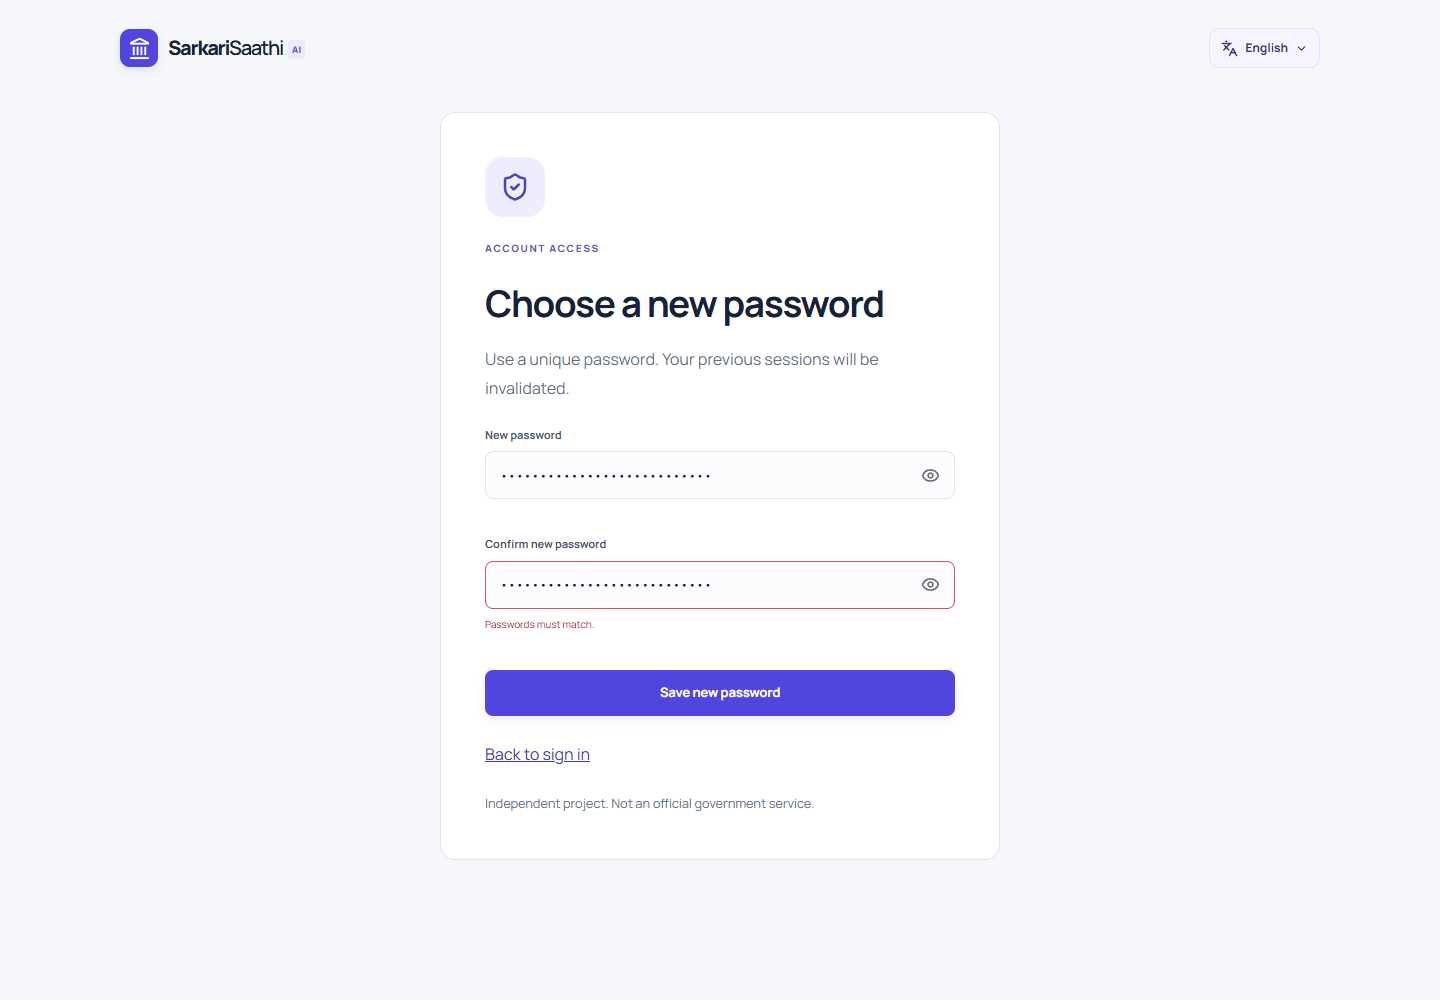
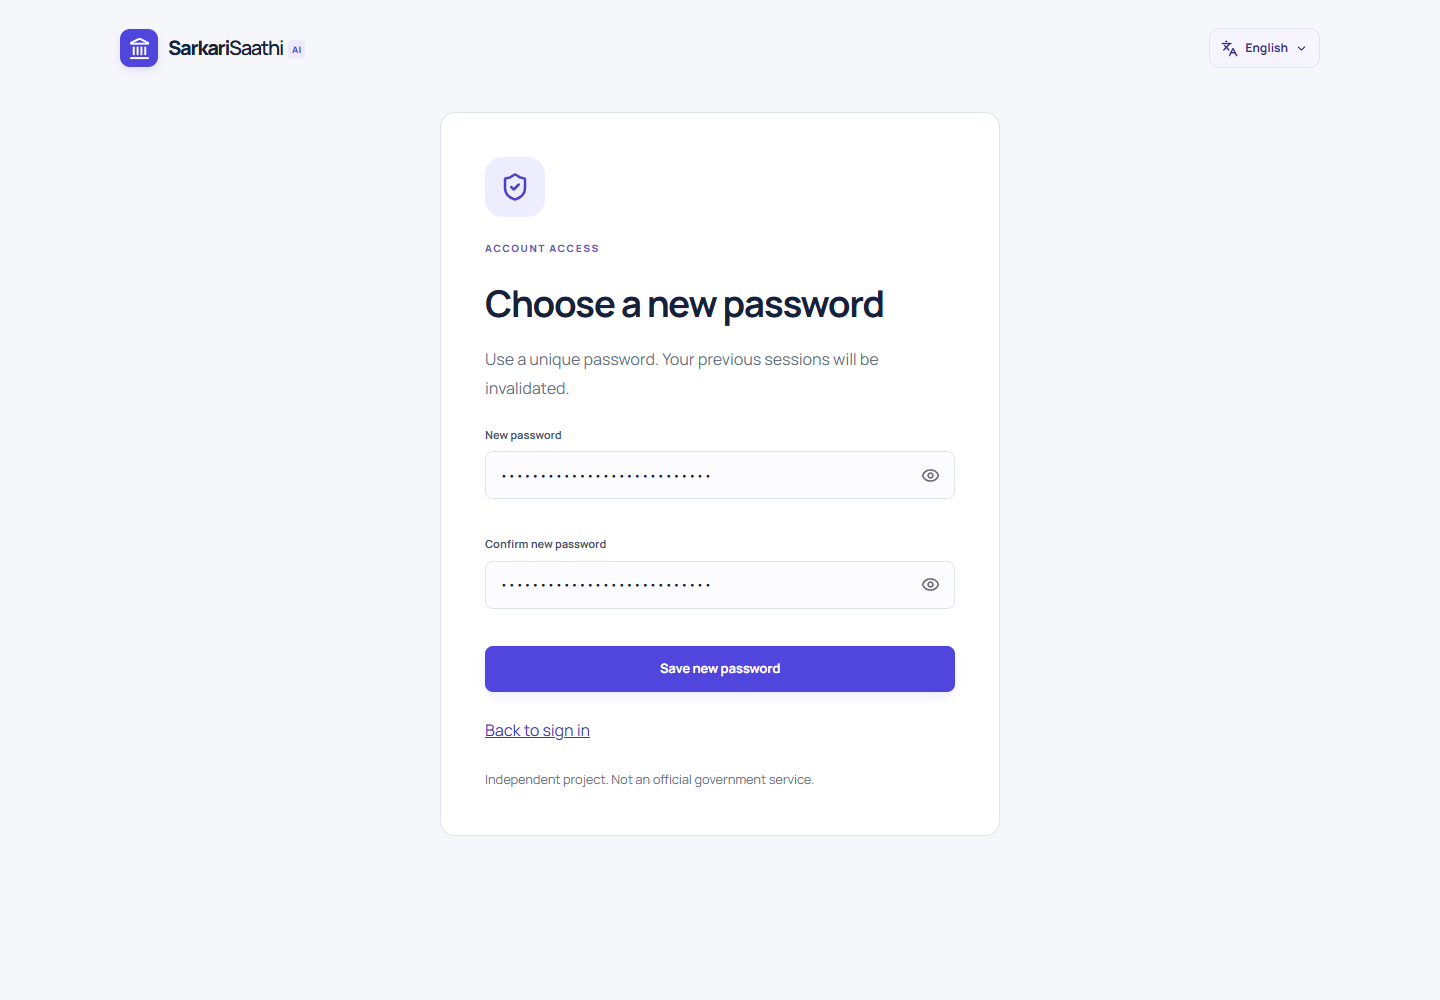
Clear stale recovery-form validation when fields change

Changed region(s): [[0.3125, 0.62, 0.6875, 0.806]]

diff --git a/client/src/pages/AccountLink.jsx b/client/src/pages/AccountLink.jsx
@@ -103,6 +103,11 @@ export default function AccountLink({ action }) {
       setBusy(false);
     }
   }
+  function edit(setter, key, value) {
+    setter(value);
+    setErrors((previous) => ({ ...previous, [key]: "" }));
+    setError("");
+  }
   return (
     <main
       id="main-content"
@@ -165,7 +170,7 @@ export default function AccountLink({ action }) {
                 autoComplete="email"
                 value={email}
                 maxLength={254}
-                onChange={(e) => setEmail(e.target.value)}
+                onChange={(e) => edit(setEmail, "email", e.target.value)}
                 error={errors.email}
                 disabled={busy}
               />
@@ -178,7 +183,9 @@ export default function AccountLink({ action }) {
                   type="password"
                   autoComplete="new-password"
                   value={password}
-                  onChange={(e) => setPassword(e.target.value)}
+                  onChange={(e) =>
+                    edit(setPassword, "password", e.target.value)
+                  }
                   error={errors.password}
                   disabled={busy}
                 />
@@ -188,7 +195,7 @@ export default function AccountLink({ action }) {
                   type="password"
                   autoComplete="new-password"
                   value={confirm}
-                  onChange={(e) => setConfirm(e.target.value)}
+                  onChange={(e) => edit(setConfirm, "confirm", e.target.value)}
                   error={errors.confirm}
                   disabled={busy}
                 />

diff --git a/docs/ADDITIONS-PROGRESS.md b/docs/ADDITIONS-PROGRESS.md
@@ -66,3 +66,5 @@ Verification on 20 October 2026: **325 Node tests** (267 API/domain/environment/
 - [x] API guide, environment examples, screenshot gallery and Postman request/script syntax verified.
 
 External SMTP delivery, multi-instance rate limiting, public deployment and email-delivery guarantees are not tested or provided by this local handoff. Earlier measured Lighthouse results remain in the phase verification documents; no new performance score is claimed for these additions. AI/RAG and official application/status integration remain skipped.
+
+Account-controls CI passed: https://github.com/devanshchaudharyy/sarkari-saathi-ai/actions/runs/39448450109 . Final form polish clears outdated recovery-field errors when inputs change; browser assertions and refreshed screenshots cover the feedback.
